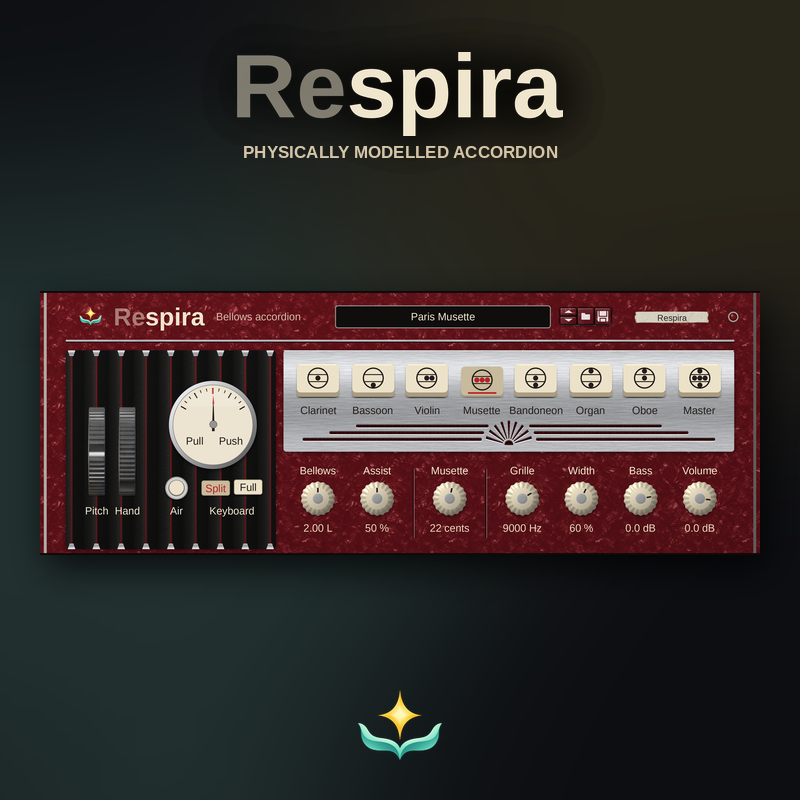
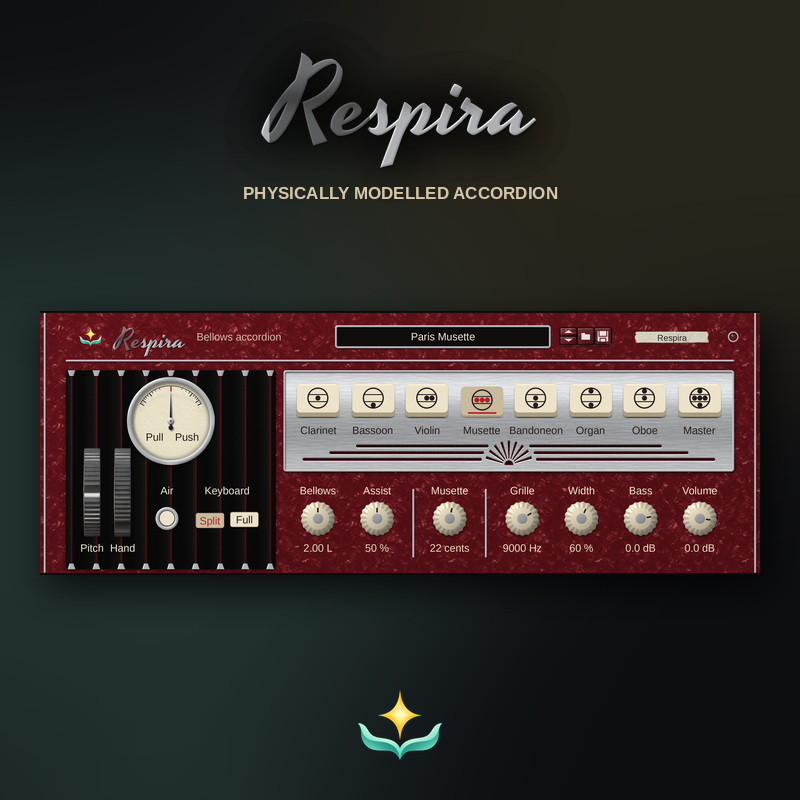
feat: Respira's final first-pass panels on its coming-soon page
The front, rear and thumbnail now come from Rack main 28707b7: the
nickel script wordmark, the dial gauge and Oversampling on the back. The
thumbnail draws its title with the device renderer's own wordmark, and
the page mentions the rear oversampling choice.

Claude-Session: https://claude.ai/code/session_01FqKD1t6d9Tje5juqcUbKQ6

Changed region(s): [[0.0312, 0.3438, 0.9688, 0.7188], [0.2812, 0.0625, 0.7188, 0.25]]

diff --git a/product/respira/index.html b/product/respira/index.html
@@ -88,7 +88,7 @@
         </div>
         <figure class="shot hero-shot">
           <a class="screenshot-link" href="respira-rack-front.webp?v=20261027-coming-soon" aria-label="View the Respira Rack Extension front panel at full size" data-analytics-cta="front_panel" data-analytics-action="view_screenshot">
-            <img src="respira-rack-front.webp?v=20261027-coming-soon" width="1508" height="552" fetchpriority="high" decoding="async" alt="Respira Rack Extension front panel with pitch and hand wheels, the air button and keyboard switch on bellows cloth, a pull and push pressure gauge, eight register tabs on a nickel grille and seven sound controls">
+            <img src="respira-rack-front.webp?v=20261027-coming-soon" width="1508" height="552" fetchpriority="high" decoding="async" alt="Respira Rack Extension front panel with a pull and push pressure gauge, pitch and hand wheels, the air button and keyboard switch on bellows cloth, eight register tabs on a nickel grille and seven sound controls">
             <span class="shot-caption">Front panel · development build <span>View full size <span aria-hidden="true">↗</span></span></span>
           </a>
         </figure>
@@ -117,11 +117,11 @@
           <span class="tag">In the rack</span>
           <h2 class="title">Your hand on the left. Registers on the grille.</h2>
           <p class="lede">The four-unit front panel puts the hand on the bellows cloth: the pitch and hand wheels, the Air button, the keyboard split and the pressure gauge. The nickel grille carries the eight register tabs, with Bellows, Assist, Musette, Grille, Width, Bass and Volume below. The sustain pedal opens the air valve too.</p>
-          <p class="lede">Turn the rack around for Momentum, which sets how smoothly the bellows turn at each change of direction, a chart of the registers and the dry stereo output, ready for your own room and effects.</p>
+          <p class="lede">Turn the rack around for Momentum, which sets how smoothly the bellows turn at each change of direction, a chart of the registers, oversampling and the dry stereo output, ready for your own room and effects.</p>
         </div>
         <figure class="shot">
           <a class="screenshot-link" href="respira-rack-rear.webp?v=20261027-coming-soon" aria-label="View the Respira Rack Extension rear panel at full size" data-analytics-cta="rear_panel" data-analytics-action="view_screenshot">
-            <img src="respira-rack-rear.webp?v=20261027-coming-soon" width="1508" height="552" loading="lazy" decoding="async" alt="Respira Rack Extension rear panel with the Momentum knob, a chart of the eight registers and the stereo audio outputs">
+            <img src="respira-rack-rear.webp?v=20261027-coming-soon" width="1508" height="552" loading="lazy" decoding="async" alt="Respira Rack Extension rear panel with the Momentum knob, a chart of the eight registers, the oversampling choice and the stereo audio outputs">
             <span class="shot-caption">Rear panel &amp; connections <span>View full size <span aria-hidden="true">↗</span></span></span>
           </a>
         </figure>

diff --git a/product/SCREENSHOTS.md b/product/SCREENSHOTS.md
@@ -17,7 +17,7 @@ Rack device, such as Septum, have no page.
 | Ceres | Unchanged Rack 1.0.0f1 first-public-release candidate prepared 23 October 2026; exact release sources, default panel state and SHA-256 records in [`ceres/ASSET_PROVENANCE.json`](ceres/ASSET_PROVENANCE.json). | Complete front/back PNGs and matching WebPs, 754 × 414; 800 × 800 thumbnail; four-page candidate player guide |
 | Press78 | Unchanged Rack 0.1.0b15 panel renders `Docs/screenshots/Press78_{Front,Back}.png`, canonical revision `1f74ad77`; earlier candidate media retained. | `press78-rack-front.webp` and `press78-rack-rear.webp`, 754 × 552 |
 | Aculele | Rack 0.2.0d2 development panel previews from `Examples/Aculele/Design/render_panels.py --review`, branch revision `e769e2e5`; no SDK build. Records in [`aculele/ASSET_PROVENANCE.json`](aculele/ASSET_PROVENANCE.json). | `aculele-rack-front.webp` and `aculele-rack-rear.webp`, 1508 × 1104; 800 × 800 thumbnail |
-| Respira | Rack 0.1.0d1 development panel previews committed in `Examples/Respira/Docs/screenshots/`, main revision `d3b03a2f`; no SDK build. Records in [`respira/ASSET_PROVENANCE.json`](respira/ASSET_PROVENANCE.json). | `respira-rack-front.webp` and `respira-rack-rear.webp`, 1508 × 552; 800 × 800 thumbnail |
+| Respira | Rack 0.1.0d1 final first-pass panel previews committed in `Examples/Respira/Docs/screenshots/`, main revision `28707b7f`; no SDK build. Records in [`respira/ASSET_PROVENANCE.json`](respira/ASSET_PROVENANCE.json). | `respira-rack-front.webp` and `respira-rack-rear.webp`, 1508 × 552; 800 × 800 thumbnail |
 | Aculyre | Rack 0.4.0d1 development panel previews from `Examples/Aculyre/Design/render_panels.py`, branch revision `2ecab2ac`; no SDK build. Records in [`aculyre/ASSET_PROVENANCE.json`](aculyre/ASSET_PROVENANCE.json). | `aculyre-rack-front.webp` and `aculyre-rack-rear.webp`, 1508 × 828; 800 × 800 thumbnail |
 | Lamer Degrader | Public Shop listing 1.0.0; existing full front/rear PNGs and thumbnail verified byte-for-byte against current public Shop originals. Exact URLs and hashes are in `lamer/ASSET_PROVENANCE.json`. | Complete front/rear PNGs and WebPs, 1600 × 293; 800 × 800 thumbnail. Existing mascots, poster and demonstration video retained. |
 | Podcare | Existing repository illustration | Existing card retained |
@@ -95,7 +95,7 @@ features. The relevant source is under `Examples/<Product>` in the
 - Respira: the mod wheel as the hand on the bellows, nothing sounding without
   air, simulated steel reeds in their own chambers, eight registers over five
   ranks, Assist, Air, the split keyboard's bass and chord buttons, pitch bend,
-  Momentum on the rear, a dry stereo output and eight register patches plus
+  Momentum and oversampling on the rear, a dry stereo output and eight register patches plus
   Init, from the Rack README at 0.1.0d1 and the canonical README.
 - Aculyre: one bridge bar on a modal soundbox so idle strings ring in sympathy,
   a 16-string steel or nylon lyre harp and a six-string gut lyre with a 20 ms
